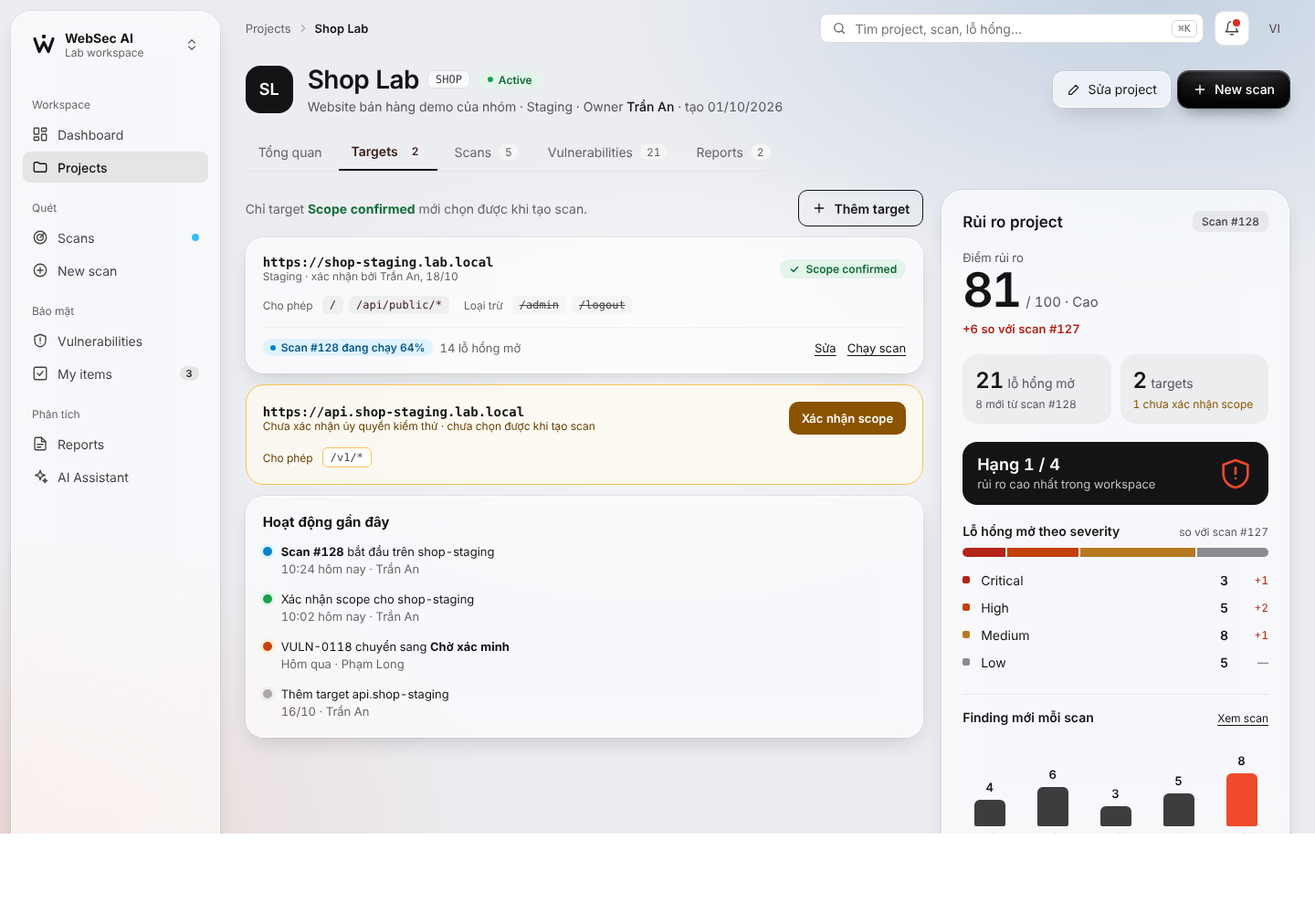
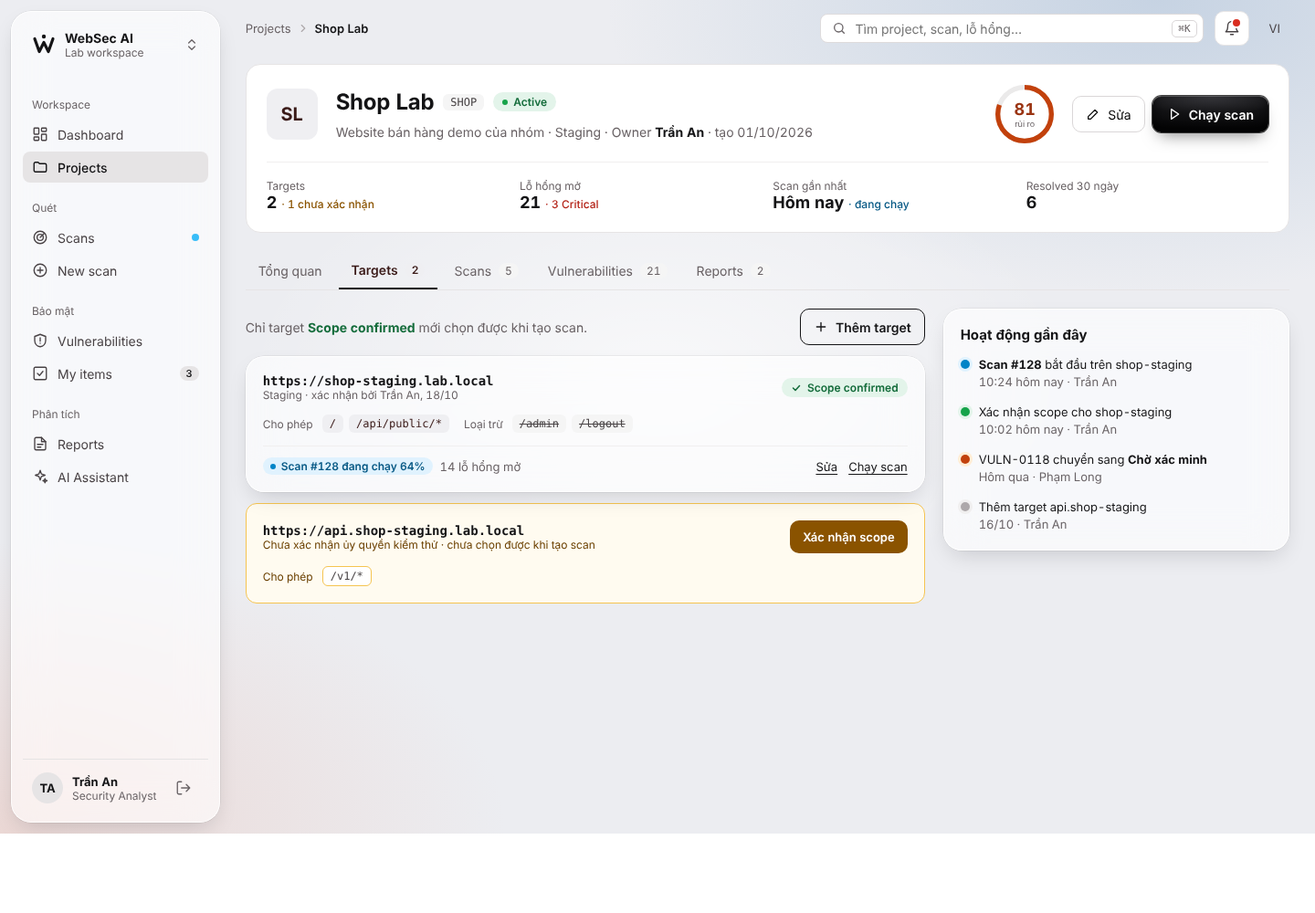
design: W04 quay về bố cục trước stats card (giữ nền mới)
Claude-Session: https://claude.ai/code/session_01LwojaGAzL5sjq8DHbyiojU

diff --git a/design/source/W04-Project-Detail.dc.html b/design/source/W04-Project-Detail.dc.html
@@ -13,7 +13,6 @@ body{margin:0}
 a{color:#141416;text-decoration-thickness:1px;text-underline-offset:3px}a:hover{color:#000}button:focus-visible,a:focus-visible,input:focus-visible,select:focus-visible{outline:2px solid #4c8dff;outline-offset:2px}body{-webkit-font-smoothing:antialiased}
 body{font-variant-numeric:tabular-nums}
 @media (max-width: 900px){nav[aria-label="Điều hướng chính"]{flex-basis:100%;padding-bottom:0}nav[aria-label="Điều hướng chính"]>:not(:first-child){display:none}}
-
 </style>
 </helmet>
 <div style="min-height: 100vh; display: flex; flex-wrap: wrap; background-color: #ECEDF1; background-image: radial-gradient(60% 50% at 88% 0%, rgba(111, 151, 194, 0.30), transparent 70%), radial-gradient(55% 50% at 0% 100%, rgba(233, 194, 184, 0.50), transparent 70%), radial-gradient(45% 40% at 50% 45%, rgba(255, 255, 255, 0.65), transparent 70%); background-attachment: fixed; font-family: ui-sans-serif, system-ui, -apple-system, 'SF Pro Text', 'Segoe UI', Roboto, 'Helvetica Neue', Arial, sans-serif; color: #141416">
@@ -45,15 +44,22 @@ body{font-variant-numeric:tabular-nums}
 
 <main style="flex: 1; box-sizing: border-box; margin: 0; background: transparent; padding: 20px 28px 32px; display: flex; flex-direction: column; gap: 20px">
 
-<section aria-label="Project" style="display: flex; flex-wrap: wrap; align-items: center; gap: 16px">
-<span style="flex: none; width: 52px; height: 52px; border-radius: 16px; background: #141416; color: #FFFFFF; display: flex; align-items: center; justify-content: center; font-weight: 600; font-size: 18px">SL</span>
-<div style="flex: 1 1 320px; min-width: 0; display: flex; flex-direction: column; gap: 4px">
-<div style="display: flex; flex-wrap: wrap; align-items: center; gap: 10px"><h1 style="margin: 0; font-size: 28px; line-height: 34px; font-weight: 600; letter-spacing: -0.02em">Shop Lab</h1><span style="font-family: ui-monospace, 'SF Mono', SFMono-Regular, Menlo, Consolas, monospace; font-size: 12px; padding: 2px 8px; background: rgba(255, 255, 255, 0.7); box-shadow: 0 0 0 0.5px rgba(0, 0, 0, 0.12); border-radius: 6px; color: #3f3f46">SHOP</span><span style="display: inline-flex; align-items: center; gap: 6px; font-size: 12px; font-weight: 600; padding: 2px 10px; background: #E3F4EA; color: #146C3B; border-radius: 999px"><span style="width: 6px; height: 6px; border-radius: 3px; background: #16A34A"></span>Active</span></div>
-<p style="margin: 0; font-size: 14px; color: #55555c">Website bán hàng demo của nhóm · Staging · Owner <b style="color: #141416; font-weight: 500">Trần An</b> · tạo 01/10/2026</p>
+<section style="background: #FFFFFF; border: 1px solid #E6E4E5; border-radius: 16px; padding: 22px; display: flex; flex-wrap: wrap; align-items: center; gap: 20px">
+<span style="flex: none; width: 56px; height: 56px; border-radius: 12px; background: #EFEFF2; color: #3A1A18; display: flex; align-items: center; justify-content: center; font-weight: 700; font-size: 20px">SL</span>
+<div style="flex: 1 1 320px; min-width: 0; display: flex; flex-direction: column; gap: 6px">
+<div style="display: flex; flex-wrap: wrap; align-items: center; gap: 10px"><h1 style="margin: 0; font-size: 24px; line-height: 32px; letter-spacing: -0.01em">Shop Lab</h1><span style="font-family: ui-monospace, 'SF Mono', SFMono-Regular, Menlo, Consolas, monospace; font-size: 12px; padding: 2px 8px; background: #F5F5F5; border-radius: 6px; color: #484345">SHOP</span><span style="display: inline-flex; align-items: center; gap: 6px; font-size: 12px; font-weight: 600; padding: 3px 10px; background: #E3F4EA; color: #146C3B; border-radius: 999px"><span style="width: 6px; height: 6px; border-radius: 3px; background: #16A34A"></span>Active</span></div>
+<p style="margin: 0; font-size: 14px; line-height: 21px; color: #686164">Website bán hàng demo của nhóm · Staging · Owner <b style="color: #141416">Trần An</b> · tạo 01/10/2026</p>
 </div>
+<span role="img" aria-label="Điểm rủi ro 81, mức cao" style="position: relative; flex: none; width: 64px; height: 64px; display: flex; align-items: center; justify-content: center"><svg aria-hidden="true" width="64" height="64" viewBox="0 0 36 36" style="position: absolute; inset: 0; transform: rotate(-90deg)"><circle cx="18" cy="18" r="16.5" fill="none" stroke="#EBEAEA" stroke-width="3"/><circle cx="18" cy="18" r="16.5" fill="none" stroke="#C2410C" stroke-width="3" pathLength="100" stroke-dasharray="81 100"/></svg><span style="position: relative; width: 52px; height: 52px; border-radius: 26px; background: #FFFFFF; display: flex; flex-direction: column; align-items: center; justify-content: center; line-height: 1"><b style="font-size: 18px; color: #9A3412">81</b><span style="font-size: 9px; color: #686164; margin-top: 2px">rủi ro</span></span></span>
 <div style="display: flex; flex-wrap: wrap; gap: 8px">
-<button type="button" style="display: inline-flex; align-items: center; gap: 8px; min-height: 40px; padding: 0 14px; border: none; border-radius: 12px; background: rgba(255, 255, 255, 0.62); -webkit-backdrop-filter: blur(22px) saturate(1.5); backdrop-filter: blur(22px) saturate(1.5); border: 1px solid rgba(255, 255, 255, 0.8); box-shadow: 0 0 0 0.5px rgba(0, 0, 0, 0.1), 0 10px 26px -8px rgba(10, 12, 20, 0.18); font: inherit; font-size: 14px; color: #141416"><svg aria-hidden="true" width="16" height="16" viewBox="0 0 24 24" fill="none" stroke="currentColor" stroke-width="1.8" stroke-linecap="round" stroke-linejoin="round"><path d="M4 20h4L19 9l-4-4L4 16z"/></svg>Sửa project</button>
-<a href="W06-Scan-Wizard.dc.html" style="display: inline-flex; align-items: center; gap: 8px; min-height: 40px; padding: 0 16px; background: radial-gradient(120% 90% at 50% 0%, #3a3a3f 0%, #121214 55%, #050506 100%); color: #FFFFFF; box-shadow: inset 0 1px 0 rgba(255, 255, 255, 0.22), inset 0 -3px 8px rgba(0, 0, 0, 0.7), 0 0 0 1px rgba(0, 0, 0, 0.75), 0 10px 18px -8px rgba(0, 0, 0, 0.5); border-radius: 12px; text-decoration: none; font-size: 14px; font-weight: 500"><svg aria-hidden="true" width="16" height="16" viewBox="0 0 24 24" fill="none" stroke="currentColor" stroke-width="2" stroke-linecap="round"><path d="M12 5v14M5 12h14"/></svg>New scan</a>
+<button type="button" style="display: inline-flex; align-items: center; gap: 8px; min-height: 40px; padding: 0 14px; border: 1px solid #DAD7D8; border-radius: 10px; background: #FFFFFF; font: inherit; font-size: 14px"><svg aria-hidden="true" width="16" height="16" viewBox="0 0 24 24" fill="none" stroke="currentColor" stroke-width="1.8" stroke-linecap="round" stroke-linejoin="round"><path d="M4 20h4L19 9l-4-4L4 16z"/></svg>Sửa</button>
+<a href="W06-Scan-Wizard.dc.html" style="display: inline-flex; align-items: center; gap: 8px; min-height: 40px; padding: 0 16px; background: radial-gradient(120% 90% at 50% 0%, #3a3a3f 0%, #121214 55%, #050506 100%); color: #FFFFFF; box-shadow: inset 0 1px 0 rgba(255, 255, 255, 0.22), inset 0 -3px 8px rgba(0, 0, 0, 0.7), 0 0 0 1px rgba(0, 0, 0, 0.75), 0 10px 18px -8px rgba(0, 0, 0, 0.5); border-radius: 10px; text-decoration: none; font-size: 14px; font-weight: 600"><svg aria-hidden="true" width="16" height="16" viewBox="0 0 24 24" fill="none" stroke="currentColor" stroke-width="2" stroke-linecap="round" stroke-linejoin="round"><path d="M7 4l12 8-12 8z"/></svg>Chạy scan</a>
+</div>
+<div style="flex: 1 1 100%; display: grid; grid-template-columns: repeat(auto-fit, minmax(160px, 1fr)); gap: 12px; padding-top: 18px; border-top: 1px solid #F0EFEF">
+<div style="display: flex; align-items: center; gap: 12px"><span style="display: flex; flex-direction: column"><span style="font-size: 12px; color: #686164">Targets</span><b style="font-size: 18px">2 <span style="font-size: 12px; font-weight: 500; color: #8A5300">· 1 chưa xác nhận</span></b></span></div>
+<div style="display: flex; align-items: center; gap: 12px"><span style="display: flex; flex-direction: column"><span style="font-size: 12px; color: #686164">Lỗ hổng mở</span><b style="font-size: 18px">21 <span style="font-size: 12px; font-weight: 500; color: #B42318">· 3 Critical</span></b></span></div>
+<div style="display: flex; align-items: center; gap: 12px"><span style="display: flex; flex-direction: column"><span style="font-size: 12px; color: #686164">Scan gần nhất</span><b style="font-size: 18px">Hôm nay <span style="font-size: 12px; font-weight: 500; color: #075985">· đang chạy</span></b></span></div>
+<div style="display: flex; align-items: center; gap: 12px"><span style="display: flex; flex-direction: column"><span style="font-size: 12px; color: #686164">Resolved 30 ngày</span><b style="font-size: 18px">6</b></span></div>
 </div>
 </section>
 
@@ -88,7 +94,7 @@ body{font-variant-numeric:tabular-nums}
 </div>
 </article>
 
-<article style="background: rgba(255, 251, 240, 0.75); -webkit-backdrop-filter: blur(22px); backdrop-filter: blur(22px); border: 1px solid #F5C451; border-radius: 20px; padding: 18px; display: flex; flex-direction: column; gap: 14px">
+<article style="background: #FFFBF0; border: 1px solid #F5C451; border-radius: 12px; padding: 18px; display: flex; flex-direction: column; gap: 14px">
 <div style="display: flex; flex-wrap: wrap; align-items: center; gap: 12px">
 
 <span style="flex: 1 1 260px; min-width: 0; display: flex; flex-direction: column"><a href="W05-Target.dc.html" style="font-family: ui-monospace, 'SF Mono', SFMono-Regular, Menlo, Consolas, monospace; font-size: 14px; font-weight: 600; color: #141416; text-decoration: none">https://api.shop-staging.lab.local</a><span style="font-size: 12px; color: #6B4000">Chưa xác nhận ủy quyền kiểm thử · chưa chọn được khi tạo scan</span></span>
@@ -96,7 +102,9 @@ body{font-variant-numeric:tabular-nums}
 </div>
 <div style="display: flex; flex-wrap: wrap; gap: 6px; align-items: center; font-size: 12px"><span style="color: #6B4000; margin-right: 4px">Cho phép</span><span style="font-family: ui-monospace, 'SF Mono', SFMono-Regular, Menlo, Consolas, monospace; padding: 3px 8px; background: #FFFFFF; color: #484345; border-radius: 6px; border: 1px solid #F5C451">/v1/*</span></div>
 </article>
-<aside style=" background: rgba(255, 255, 255, 0.62); -webkit-backdrop-filter: blur(22px) saturate(1.5); backdrop-filter: blur(22px) saturate(1.5); border: 1px solid rgba(255, 255, 255, 0.8); box-shadow: 0 0 0 0.5px rgba(0, 0, 0, 0.1), 0 10px 26px -8px rgba(10, 12, 20, 0.18); border-radius: 20px; padding: 18px; display: flex; flex-direction: column; gap: 14px">
+</div>
+
+<aside style="flex: 1 1 280px; min-width: 0; background: rgba(255, 255, 255, 0.62); -webkit-backdrop-filter: blur(22px) saturate(1.5); backdrop-filter: blur(22px) saturate(1.5); border: 1px solid rgba(255, 255, 255, 0.8); box-shadow: 0 0 0 0.5px rgba(0, 0, 0, 0.1), 0 10px 26px -8px rgba(10, 12, 20, 0.18); border-radius: 20px; padding: 18px; display: flex; flex-direction: column; gap: 14px">
 <h2 style="margin: 0; font-size: 15px">Hoạt động gần đây</h2>
 <ol style="margin: 0; padding: 0; list-style: none; display: flex; flex-direction: column; gap: 14px; font-size: 13px; line-height: 19px">
 <li style="display: flex; gap: 10px"><span style="flex: none; width: 10px; height: 10px; margin-top: 4px; border-radius: 5px; background: #0284C7; box-shadow: 0 0 0 3px #E0F2FE"></span><span><b>Scan #128</b> bắt đầu trên shop-staging<br><span style="color: #696366">10:24 hôm nay · Trần An</span></span></li>
@@ -105,30 +113,6 @@ body{font-variant-numeric:tabular-nums}
 <li style="display: flex; gap: 10px"><span style="flex: none; width: 10px; height: 10px; margin-top: 4px; border-radius: 5px; background: #ADA8AA; box-shadow: 0 0 0 3px #F0EFEF"></span><span>Thêm target api.shop-staging<br><span style="color: #696366">16/10 · Trần An</span></span></li>
 </ol>
 </aside>
-</div>
-
-<div style="flex: 1 1 320px; min-width: 0; display: flex; flex-direction: column; gap: 20px"><section aria-labelledby="pd-stats" style="background: rgba(255, 255, 255, 0.62); -webkit-backdrop-filter: blur(22px) saturate(1.5); backdrop-filter: blur(22px) saturate(1.5); border: 1px solid rgba(255, 255, 255, 0.8); box-shadow: 0 0 0 0.5px rgba(0, 0, 0, 0.1), 0 10px 26px -8px rgba(10, 12, 20, 0.18); border-radius: 24px; padding: 22px; display: flex; flex-direction: column; gap: 20px">
-<header style="display: flex; justify-content: space-between; align-items: center; gap: 8px"><h2 id="pd-stats" style="margin: 0; font-size: 17px; font-weight: 600">Rủi ro project</h2><span style="font-size: 12px; font-weight: 500; padding: 4px 10px; border-radius: 8px; background: rgba(20, 20, 22, 0.06); color: #3f3f46">Scan #128</span></header>
-<div><p style="margin: 0; font-size: 13px; color: #55555c">Điểm rủi ro</p><p style="margin: 2px 0 0; display: flex; align-items: baseline; gap: 6px"><b style="font-size: 52px; line-height: 1; font-weight: 600; letter-spacing: -0.04em">81</b><span style="font-size: 15px; color: #55555c">/ 100 · Cao</span></p><p style="margin: 8px 0 0; font-size: 13px; font-weight: 600; color: #B42318">+6 so với scan #127</p></div>
-<div style="display: grid; grid-template-columns: 1fr 1fr; gap: 10px">
-<a href="W08-Vulns.dc.html" style="padding: 14px; border-radius: 16px; background: rgba(20, 20, 22, 0.05); text-decoration: none; color: #141416"><span style="font-size: 24px; font-weight: 600">21</span> <span style="font-size: 14px; color: #55555c">lỗ hổng mở</span><span style="display: block; margin-top: 4px; font-size: 12px; color: #55555c">8 mới từ scan #128</span></a>
-<a href="W05-Target.dc.html" style="padding: 14px; border-radius: 16px; background: rgba(20, 20, 22, 0.05); text-decoration: none; color: #141416"><span style="font-size: 24px; font-weight: 600">2</span> <span style="font-size: 14px; color: #55555c">targets</span><span style="display: block; margin-top: 4px; font-size: 12px; color: #8A5300">1 chưa xác nhận scope</span></a>
-</div>
-<div style="display: flex; align-items: center; justify-content: space-between; gap: 12px; padding: 14px 16px; border-radius: 16px; background: #141416; color: #FFFFFF" aria-label="Xếp hạng 1 trên 4 project">
-<div><b style="display: block; font-size: 18px; font-weight: 600">Hạng 1 / 4</b><span style="font-size: 13px; color: rgba(255, 255, 255, 0.72)">rủi ro cao nhất trong workspace</span></div>
-<svg aria-hidden="true" width="40" height="40" viewBox="0 0 24 24" fill="none" stroke="#EF4A2B" stroke-width="1.6" stroke-linecap="round" stroke-linejoin="round"><path d="M12 3l8 3v6c0 4.5-3.4 8.3-8 9-4.6-.7-8-4.5-8-9V6z"/><path d="M12 8v4M12 15h.01"/></svg>
-</div>
-<div style="display: flex; flex-direction: column; gap: 10px">
-<div style="display: flex; justify-content: space-between; align-items: baseline"><h3 style="margin: 0; font-size: 14px; font-weight: 600">Lỗ hổng mở theo severity</h3><span style="font-size: 12px; color: #55555c">so với scan #127</span></div>
-<div role="img" aria-label="21 lỗ hổng mở: 3 Critical, 5 High, 8 Medium, 5 Low" style="display: flex; gap: 2px; height: 10px; border-radius: 5px; overflow: hidden"><span style="flex: 3; background: #B42318"></span><span style="flex: 5; background: #C2410C"></span><span style="flex: 8; background: #B7791F"></span><span style="flex: 5; background: #8A8A90"></span></div>
-<div style="display: flex; flex-direction: column"><a href="W08-Vulns.dc.html" style="display: grid; grid-template-columns: 10px 1fr 28px 34px; align-items: center; gap: 10px; min-height: 30px; text-decoration: none; color: #141416; font-size: 14px"><span style="width: 8px; height: 8px; border-radius: 2px; background: #B42318"></span><span>Critical</span><b style="text-align: right; font-weight: 600">3</b><span style="text-align: right; font-size: 12px; color: #B42318">+1</span></a><a href="W08-Vulns.dc.html" style="display: grid; grid-template-columns: 10px 1fr 28px 34px; align-items: center; gap: 10px; min-height: 30px; text-decoration: none; color: #141416; font-size: 14px"><span style="width: 8px; height: 8px; border-radius: 2px; background: #C2410C"></span><span>High</span><b style="text-align: right; font-weight: 600">5</b><span style="text-align: right; font-size: 12px; color: #B42318">+2</span></a><a href="W08-Vulns.dc.html" style="display: grid; grid-template-columns: 10px 1fr 28px 34px; align-items: center; gap: 10px; min-height: 30px; text-decoration: none; color: #141416; font-size: 14px"><span style="width: 8px; height: 8px; border-radius: 2px; background: #B7791F"></span><span>Medium</span><b style="text-align: right; font-weight: 600">8</b><span style="text-align: right; font-size: 12px; color: #B42318">+1</span></a><a href="W08-Vulns.dc.html" style="display: grid; grid-template-columns: 10px 1fr 28px 34px; align-items: center; gap: 10px; min-height: 30px; text-decoration: none; color: #141416; font-size: 14px"><span style="width: 8px; height: 8px; border-radius: 2px; background: #8A8A90"></span><span>Low</span><b style="text-align: right; font-weight: 600">5</b><span style="text-align: right; font-size: 12px; color: #6b6b72">—</span></a></div>
-</div>
-<div style="display: flex; flex-direction: column; gap: 10px; padding-top: 16px; border-top: 1px solid rgba(20, 20, 22, 0.08)">
-<div style="display: flex; justify-content: space-between; align-items: baseline"><h3 style="margin: 0; font-size: 14px; font-weight: 600">Finding mới mỗi scan</h3><a href="W07-Scan-Detail.dc.html" style="font-size: 12px">Xem scan</a></div>
-<div role="img" aria-label="Finding mới qua 5 scan: #124 4, #125 6, #126 3, #127 5, #128 8 (đang chạy)" style="display: flex; align-items: flex-end; gap: 10px; height: 120px"><div style="flex: 1; display: flex; flex-direction: column; align-items: center; gap: 6px"><b style="font-size: 13px; font-weight: 600; color: #141416">4</b><span style="width: 100%; max-width: 34px; height: 29px; border-radius: 6px 6px 2px 2px; background: #141416; opacity: 0.82"></span><span style="font-family: ui-monospace, 'SF Mono', SFMono-Regular, Menlo, Consolas, monospace; font-size: 11px; color: #5f5f66">#124</span></div><div style="flex: 1; display: flex; flex-direction: column; align-items: center; gap: 6px"><b style="font-size: 13px; font-weight: 600; color: #141416">6</b><span style="width: 100%; max-width: 34px; height: 43px; border-radius: 6px 6px 2px 2px; background: #141416; opacity: 0.82"></span><span style="font-family: ui-monospace, 'SF Mono', SFMono-Regular, Menlo, Consolas, monospace; font-size: 11px; color: #5f5f66">#125</span></div><div style="flex: 1; display: flex; flex-direction: column; align-items: center; gap: 6px"><b style="font-size: 13px; font-weight: 600; color: #141416">3</b><span style="width: 100%; max-width: 34px; height: 22px; border-radius: 6px 6px 2px 2px; background: #141416; opacity: 0.82"></span><span style="font-family: ui-monospace, 'SF Mono', SFMono-Regular, Menlo, Consolas, monospace; font-size: 11px; color: #5f5f66">#126</span></div><div style="flex: 1; display: flex; flex-direction: column; align-items: center; gap: 6px"><b style="font-size: 13px; font-weight: 600; color: #141416">5</b><span style="width: 100%; max-width: 34px; height: 36px; border-radius: 6px 6px 2px 2px; background: #141416; opacity: 0.82"></span><span style="font-family: ui-monospace, 'SF Mono', SFMono-Regular, Menlo, Consolas, monospace; font-size: 11px; color: #5f5f66">#127</span></div><div style="flex: 1; display: flex; flex-direction: column; align-items: center; gap: 6px"><b style="font-size: 13px; font-weight: 600; color: #141416">8</b><span style="width: 100%; max-width: 34px; height: 58px; border-radius: 6px 6px 2px 2px; background: #EF4A2B; opacity: 1"></span><span style="font-family: ui-monospace, 'SF Mono', SFMono-Regular, Menlo, Consolas, monospace; font-size: 11px; color: #5f5f66">#128</span></div></div>
-<p style="margin: 0; font-size: 12px; color: #55555c">#128 đang chạy (64%), con số còn có thể tăng.</p>
-</div>
-</section></div>
 </div>
 </main>
 </div>

diff --git a/design/screens/W04-Project-Detail.html b/design/screens/W04-Project-Detail.html
@@ -4,7 +4,6 @@ body{margin:0}
 a{color:#141416;text-decoration-thickness:1px;text-underline-offset:3px}a:hover{color:#000}button:focus-visible,a:focus-visible,input:focus-visible,select:focus-visible{outline:2px solid #4c8dff;outline-offset:2px}body{-webkit-font-smoothing:antialiased}
 body{font-variant-numeric:tabular-nums}
 @media (max-width: 900px){nav[aria-label="Điều hướng chính"]{flex-basis:100%;padding-bottom:0}nav[aria-label="Điều hướng chính"]>:not(:first-child){display:none}}
-
 </style>
 </head><body>
 
@@ -37,15 +36,22 @@ body{font-variant-numeric:tabular-nums}
 
 <main style="flex: 1; box-sizing: border-box; margin: 0; background: transparent; padding: 20px 28px 32px; display: flex; flex-direction: column; gap: 20px">
 
-<section aria-label="Project" style="display: flex; flex-wrap: wrap; align-items: center; gap: 16px">
-<span style="flex: none; width: 52px; height: 52px; border-radius: 16px; background: #141416; color: #FFFFFF; display: flex; align-items: center; justify-content: center; font-weight: 600; font-size: 18px">SL</span>
-<div style="flex: 1 1 320px; min-width: 0; display: flex; flex-direction: column; gap: 4px">
-<div style="display: flex; flex-wrap: wrap; align-items: center; gap: 10px"><h1 style="margin: 0; font-size: 28px; line-height: 34px; font-weight: 600; letter-spacing: -0.02em">Shop Lab</h1><span style="font-family: ui-monospace, 'SF Mono', SFMono-Regular, Menlo, Consolas, monospace; font-size: 12px; padding: 2px 8px; background: rgba(255, 255, 255, 0.7); box-shadow: 0 0 0 0.5px rgba(0, 0, 0, 0.12); border-radius: 6px; color: #3f3f46">SHOP</span><span style="display: inline-flex; align-items: center; gap: 6px; font-size: 12px; font-weight: 600; padding: 2px 10px; background: #E3F4EA; color: #146C3B; border-radius: 999px"><span style="width: 6px; height: 6px; border-radius: 3px; background: #16A34A"></span>Active</span></div>
-<p style="margin: 0; font-size: 14px; color: #55555c">Website bán hàng demo của nhóm · Staging · Owner <b style="color: #141416; font-weight: 500">Trần An</b> · tạo 01/10/2026</p>
+<section style="background: #FFFFFF; border: 1px solid #E6E4E5; border-radius: 16px; padding: 22px; display: flex; flex-wrap: wrap; align-items: center; gap: 20px">
+<span style="flex: none; width: 56px; height: 56px; border-radius: 12px; background: #EFEFF2; color: #3A1A18; display: flex; align-items: center; justify-content: center; font-weight: 700; font-size: 20px">SL</span>
+<div style="flex: 1 1 320px; min-width: 0; display: flex; flex-direction: column; gap: 6px">
+<div style="display: flex; flex-wrap: wrap; align-items: center; gap: 10px"><h1 style="margin: 0; font-size: 24px; line-height: 32px; letter-spacing: -0.01em">Shop Lab</h1><span style="font-family: ui-monospace, 'SF Mono', SFMono-Regular, Menlo, Consolas, monospace; font-size: 12px; padding: 2px 8px; background: #F5F5F5; border-radius: 6px; color: #484345">SHOP</span><span style="display: inline-flex; align-items: center; gap: 6px; font-size: 12px; font-weight: 600; padding: 3px 10px; background: #E3F4EA; color: #146C3B; border-radius: 999px"><span style="width: 6px; height: 6px; border-radius: 3px; background: #16A34A"></span>Active</span></div>
+<p style="margin: 0; font-size: 14px; line-height: 21px; color: #686164">Website bán hàng demo của nhóm · Staging · Owner <b style="color: #141416">Trần An</b> · tạo 01/10/2026</p>
 </div>
+<span role="img" aria-label="Điểm rủi ro 81, mức cao" style="position: relative; flex: none; width: 64px; height: 64px; display: flex; align-items: center; justify-content: center"><svg aria-hidden="true" width="64" height="64" viewBox="0 0 36 36" style="position: absolute; inset: 0; transform: rotate(-90deg)"><circle cx="18" cy="18" r="16.5" fill="none" stroke="#EBEAEA" stroke-width="3"/><circle cx="18" cy="18" r="16.5" fill="none" stroke="#C2410C" stroke-width="3" pathLength="100" stroke-dasharray="81 100"/></svg><span style="position: relative; width: 52px; height: 52px; border-radius: 26px; background: #FFFFFF; display: flex; flex-direction: column; align-items: center; justify-content: center; line-height: 1"><b style="font-size: 18px; color: #9A3412">81</b><span style="font-size: 9px; color: #686164; margin-top: 2px">rủi ro</span></span></span>
 <div style="display: flex; flex-wrap: wrap; gap: 8px">
-<button type="button" style="display: inline-flex; align-items: center; gap: 8px; min-height: 40px; padding: 0 14px; border: none; border-radius: 12px; background: rgba(255, 255, 255, 0.62); -webkit-backdrop-filter: blur(22px) saturate(1.5); backdrop-filter: blur(22px) saturate(1.5); border: 1px solid rgba(255, 255, 255, 0.8); box-shadow: 0 0 0 0.5px rgba(0, 0, 0, 0.1), 0 10px 26px -8px rgba(10, 12, 20, 0.18); font: inherit; font-size: 14px; color: #141416"><svg aria-hidden="true" width="16" height="16" viewBox="0 0 24 24" fill="none" stroke="currentColor" stroke-width="1.8" stroke-linecap="round" stroke-linejoin="round"><path d="M4 20h4L19 9l-4-4L4 16z"/></svg>Sửa project</button>
-<a href="W06-Scan-Wizard.html" style="display: inline-flex; align-items: center; gap: 8px; min-height: 40px; padding: 0 16px; background: radial-gradient(120% 90% at 50% 0%, #3a3a3f 0%, #121214 55%, #050506 100%); color: #FFFFFF; box-shadow: inset 0 1px 0 rgba(255, 255, 255, 0.22), inset 0 -3px 8px rgba(0, 0, 0, 0.7), 0 0 0 1px rgba(0, 0, 0, 0.75), 0 10px 18px -8px rgba(0, 0, 0, 0.5); border-radius: 12px; text-decoration: none; font-size: 14px; font-weight: 500"><svg aria-hidden="true" width="16" height="16" viewBox="0 0 24 24" fill="none" stroke="currentColor" stroke-width="2" stroke-linecap="round"><path d="M12 5v14M5 12h14"/></svg>New scan</a>
+<button type="button" style="display: inline-flex; align-items: center; gap: 8px; min-height: 40px; padding: 0 14px; border: 1px solid #DAD7D8; border-radius: 10px; background: #FFFFFF; font: inherit; font-size: 14px"><svg aria-hidden="true" width="16" height="16" viewBox="0 0 24 24" fill="none" stroke="currentColor" stroke-width="1.8" stroke-linecap="round" stroke-linejoin="round"><path d="M4 20h4L19 9l-4-4L4 16z"/></svg>Sửa</button>
+<a href="W06-Scan-Wizard.html" style="display: inline-flex; align-items: center; gap: 8px; min-height: 40px; padding: 0 16px; background: radial-gradient(120% 90% at 50% 0%, #3a3a3f 0%, #121214 55%, #050506 100%); color: #FFFFFF; box-shadow: inset 0 1px 0 rgba(255, 255, 255, 0.22), inset 0 -3px 8px rgba(0, 0, 0, 0.7), 0 0 0 1px rgba(0, 0, 0, 0.75), 0 10px 18px -8px rgba(0, 0, 0, 0.5); border-radius: 10px; text-decoration: none; font-size: 14px; font-weight: 600"><svg aria-hidden="true" width="16" height="16" viewBox="0 0 24 24" fill="none" stroke="currentColor" stroke-width="2" stroke-linecap="round" stroke-linejoin="round"><path d="M7 4l12 8-12 8z"/></svg>Chạy scan</a>
+</div>
+<div style="flex: 1 1 100%; display: grid; grid-template-columns: repeat(auto-fit, minmax(160px, 1fr)); gap: 12px; padding-top: 18px; border-top: 1px solid #F0EFEF">
+<div style="display: flex; align-items: center; gap: 12px"><span style="display: flex; flex-direction: column"><span style="font-size: 12px; color: #686164">Targets</span><b style="font-size: 18px">2 <span style="font-size: 12px; font-weight: 500; color: #8A5300">· 1 chưa xác nhận</span></b></span></div>
+<div style="display: flex; align-items: center; gap: 12px"><span style="display: flex; flex-direction: column"><span style="font-size: 12px; color: #686164">Lỗ hổng mở</span><b style="font-size: 18px">21 <span style="font-size: 12px; font-weight: 500; color: #B42318">· 3 Critical</span></b></span></div>
+<div style="display: flex; align-items: center; gap: 12px"><span style="display: flex; flex-direction: column"><span style="font-size: 12px; color: #686164">Scan gần nhất</span><b style="font-size: 18px">Hôm nay <span style="font-size: 12px; font-weight: 500; color: #075985">· đang chạy</span></b></span></div>
+<div style="display: flex; align-items: center; gap: 12px"><span style="display: flex; flex-direction: column"><span style="font-size: 12px; color: #686164">Resolved 30 ngày</span><b style="font-size: 18px">6</b></span></div>
 </div>
 </section>
 
@@ -80,7 +86,7 @@ body{font-variant-numeric:tabular-nums}
 </div>
 </article>
 
-<article style="background: rgba(255, 251, 240, 0.75); -webkit-backdrop-filter: blur(22px); backdrop-filter: blur(22px); border: 1px solid #F5C451; border-radius: 20px; padding: 18px; display: flex; flex-direction: column; gap: 14px">
+<article style="background: #FFFBF0; border: 1px solid #F5C451; border-radius: 12px; padding: 18px; display: flex; flex-direction: column; gap: 14px">
 <div style="display: flex; flex-wrap: wrap; align-items: center; gap: 12px">
 
 <span style="flex: 1 1 260px; min-width: 0; display: flex; flex-direction: column"><a href="W05-Target.html" style="font-family: ui-monospace, 'SF Mono', SFMono-Regular, Menlo, Consolas, monospace; font-size: 14px; font-weight: 600; color: #141416; text-decoration: none">https://api.shop-staging.lab.local</a><span style="font-size: 12px; color: #6B4000">Chưa xác nhận ủy quyền kiểm thử · chưa chọn được khi tạo scan</span></span>
@@ -88,7 +94,9 @@ body{font-variant-numeric:tabular-nums}
 </div>
 <div style="display: flex; flex-wrap: wrap; gap: 6px; align-items: center; font-size: 12px"><span style="color: #6B4000; margin-right: 4px">Cho phép</span><span style="font-family: ui-monospace, 'SF Mono', SFMono-Regular, Menlo, Consolas, monospace; padding: 3px 8px; background: #FFFFFF; color: #484345; border-radius: 6px; border: 1px solid #F5C451">/v1/*</span></div>
 </article>
-<aside style=" background: rgba(255, 255, 255, 0.62); -webkit-backdrop-filter: blur(22px) saturate(1.5); backdrop-filter: blur(22px) saturate(1.5); border: 1px solid rgba(255, 255, 255, 0.8); box-shadow: 0 0 0 0.5px rgba(0, 0, 0, 0.1), 0 10px 26px -8px rgba(10, 12, 20, 0.18); border-radius: 20px; padding: 18px; display: flex; flex-direction: column; gap: 14px">
+</div>
+
+<aside style="flex: 1 1 280px; min-width: 0; background: rgba(255, 255, 255, 0.62); -webkit-backdrop-filter: blur(22px) saturate(1.5); backdrop-filter: blur(22px) saturate(1.5); border: 1px solid rgba(255, 255, 255, 0.8); box-shadow: 0 0 0 0.5px rgba(0, 0, 0, 0.1), 0 10px 26px -8px rgba(10, 12, 20, 0.18); border-radius: 20px; padding: 18px; display: flex; flex-direction: column; gap: 14px">
 <h2 style="margin: 0; font-size: 15px">Hoạt động gần đây</h2>
 <ol style="margin: 0; padding: 0; list-style: none; display: flex; flex-direction: column; gap: 14px; font-size: 13px; line-height: 19px">
 <li style="display: flex; gap: 10px"><span style="flex: none; width: 10px; height: 10px; margin-top: 4px; border-radius: 5px; background: #0284C7; box-shadow: 0 0 0 3px #E0F2FE"></span><span><b>Scan #128</b> bắt đầu trên shop-staging<br><span style="color: #696366">10:24 hôm nay · Trần An</span></span></li>
@@ -97,30 +105,6 @@ body{font-variant-numeric:tabular-nums}
 <li style="display: flex; gap: 10px"><span style="flex: none; width: 10px; height: 10px; margin-top: 4px; border-radius: 5px; background: #ADA8AA; box-shadow: 0 0 0 3px #F0EFEF"></span><span>Thêm target api.shop-staging<br><span style="color: #696366">16/10 · Trần An</span></span></li>
 </ol>
 </aside>
-</div>
-
-<div style="flex: 1 1 320px; min-width: 0; display: flex; flex-direction: column; gap: 20px"><section aria-labelledby="pd-stats" style="background: rgba(255, 255, 255, 0.62); -webkit-backdrop-filter: blur(22px) saturate(1.5); backdrop-filter: blur(22px) saturate(1.5); border: 1px solid rgba(255, 255, 255, 0.8); box-shadow: 0 0 0 0.5px rgba(0, 0, 0, 0.1), 0 10px 26px -8px rgba(10, 12, 20, 0.18); border-radius: 24px; padding: 22px; display: flex; flex-direction: column; gap: 20px">
-<header style="display: flex; justify-content: space-between; align-items: center; gap: 8px"><h2 id="pd-stats" style="margin: 0; font-size: 17px; font-weight: 600">Rủi ro project</h2><span style="font-size: 12px; font-weight: 500; padding: 4px 10px; border-radius: 8px; background: rgba(20, 20, 22, 0.06); color: #3f3f46">Scan #128</span></header>
-<div><p style="margin: 0; font-size: 13px; color: #55555c">Điểm rủi ro</p><p style="margin: 2px 0 0; display: flex; align-items: baseline; gap: 6px"><b style="font-size: 52px; line-height: 1; font-weight: 600; letter-spacing: -0.04em">81</b><span style="font-size: 15px; color: #55555c">/ 100 · Cao</span></p><p style="margin: 8px 0 0; font-size: 13px; font-weight: 600; color: #B42318">+6 so với scan #127</p></div>
-<div style="display: grid; grid-template-columns: 1fr 1fr; gap: 10px">
-<a href="W08-Vulns.html" style="padding: 14px; border-radius: 16px; background: rgba(20, 20, 22, 0.05); text-decoration: none; color: #141416"><span style="font-size: 24px; font-weight: 600">21</span> <span style="font-size: 14px; color: #55555c">lỗ hổng mở</span><span style="display: block; margin-top: 4px; font-size: 12px; color: #55555c">8 mới từ scan #128</span></a>
-<a href="W05-Target.html" style="padding: 14px; border-radius: 16px; background: rgba(20, 20, 22, 0.05); text-decoration: none; color: #141416"><span style="font-size: 24px; font-weight: 600">2</span> <span style="font-size: 14px; color: #55555c">targets</span><span style="display: block; margin-top: 4px; font-size: 12px; color: #8A5300">1 chưa xác nhận scope</span></a>
-</div>
-<div style="display: flex; align-items: center; justify-content: space-between; gap: 12px; padding: 14px 16px; border-radius: 16px; background: #141416; color: #FFFFFF" aria-label="Xếp hạng 1 trên 4 project">
-<div><b style="display: block; font-size: 18px; font-weight: 600">Hạng 1 / 4</b><span style="font-size: 13px; color: rgba(255, 255, 255, 0.72)">rủi ro cao nhất trong workspace</span></div>
-<svg aria-hidden="true" width="40" height="40" viewBox="0 0 24 24" fill="none" stroke="#EF4A2B" stroke-width="1.6" stroke-linecap="round" stroke-linejoin="round"><path d="M12 3l8 3v6c0 4.5-3.4 8.3-8 9-4.6-.7-8-4.5-8-9V6z"/><path d="M12 8v4M12 15h.01"/></svg>
-</div>
-<div style="display: flex; flex-direction: column; gap: 10px">
-<div style="display: flex; justify-content: space-between; align-items: baseline"><h3 style="margin: 0; font-size: 14px; font-weight: 600">Lỗ hổng mở theo severity</h3><span style="font-size: 12px; color: #55555c">so với scan #127</span></div>
-<div role="img" aria-label="21 lỗ hổng mở: 3 Critical, 5 High, 8 Medium, 5 Low" style="display: flex; gap: 2px; height: 10px; border-radius: 5px; overflow: hidden"><span style="flex: 3; background: #B42318"></span><span style="flex: 5; background: #C2410C"></span><span style="flex: 8; background: #B7791F"></span><span style="flex: 5; background: #8A8A90"></span></div>
-<div style="display: flex; flex-direction: column"><a href="W08-Vulns.html" style="display: grid; grid-template-columns: 10px 1fr 28px 34px; align-items: center; gap: 10px; min-height: 30px; text-decoration: none; color: #141416; font-size: 14px"><span style="width: 8px; height: 8px; border-radius: 2px; background: #B42318"></span><span>Critical</span><b style="text-align: right; font-weight: 600">3</b><span style="text-align: right; font-size: 12px; color: #B42318">+1</span></a><a href="W08-Vulns.html" style="display: grid; grid-template-columns: 10px 1fr 28px 34px; align-items: center; gap: 10px; min-height: 30px; text-decoration: none; color: #141416; font-size: 14px"><span style="width: 8px; height: 8px; border-radius: 2px; background: #C2410C"></span><span>High</span><b style="text-align: right; font-weight: 600">5</b><span style="text-align: right; font-size: 12px; color: #B42318">+2</span></a><a href="W08-Vulns.html" style="display: grid; grid-template-columns: 10px 1fr 28px 34px; align-items: center; gap: 10px; min-height: 30px; text-decoration: none; color: #141416; font-size: 14px"><span style="width: 8px; height: 8px; border-radius: 2px; background: #B7791F"></span><span>Medium</span><b style="text-align: right; font-weight: 600">8</b><span style="text-align: right; font-size: 12px; color: #B42318">+1</span></a><a href="W08-Vulns.html" style="display: grid; grid-template-columns: 10px 1fr 28px 34px; align-items: center; gap: 10px; min-height: 30px; text-decoration: none; color: #141416; font-size: 14px"><span style="width: 8px; height: 8px; border-radius: 2px; background: #8A8A90"></span><span>Low</span><b style="text-align: right; font-weight: 600">5</b><span style="text-align: right; font-size: 12px; color: #6b6b72">—</span></a></div>
-</div>
-<div style="display: flex; flex-direction: column; gap: 10px; padding-top: 16px; border-top: 1px solid rgba(20, 20, 22, 0.08)">
-<div style="display: flex; justify-content: space-between; align-items: baseline"><h3 style="margin: 0; font-size: 14px; font-weight: 600">Finding mới mỗi scan</h3><a href="W07-Scan-Detail.html" style="font-size: 12px">Xem scan</a></div>
-<div role="img" aria-label="Finding mới qua 5 scan: #124 4, #125 6, #126 3, #127 5, #128 8 (đang chạy)" style="display: flex; align-items: flex-end; gap: 10px; height: 120px"><div style="flex: 1; display: flex; flex-direction: column; align-items: center; gap: 6px"><b style="font-size: 13px; font-weight: 600; color: #141416">4</b><span style="width: 100%; max-width: 34px; height: 29px; border-radius: 6px 6px 2px 2px; background: #141416; opacity: 0.82"></span><span style="font-family: ui-monospace, 'SF Mono', SFMono-Regular, Menlo, Consolas, monospace; font-size: 11px; color: #5f5f66">#124</span></div><div style="flex: 1; display: flex; flex-direction: column; align-items: center; gap: 6px"><b style="font-size: 13px; font-weight: 600; color: #141416">6</b><span style="width: 100%; max-width: 34px; height: 43px; border-radius: 6px 6px 2px 2px; background: #141416; opacity: 0.82"></span><span style="font-family: ui-monospace, 'SF Mono', SFMono-Regular, Menlo, Consolas, monospace; font-size: 11px; color: #5f5f66">#125</span></div><div style="flex: 1; display: flex; flex-direction: column; align-items: center; gap: 6px"><b style="font-size: 13px; font-weight: 600; color: #141416">3</b><span style="width: 100%; max-width: 34px; height: 22px; border-radius: 6px 6px 2px 2px; background: #141416; opacity: 0.82"></span><span style="font-family: ui-monospace, 'SF Mono', SFMono-Regular, Menlo, Consolas, monospace; font-size: 11px; color: #5f5f66">#126</span></div><div style="flex: 1; display: flex; flex-direction: column; align-items: center; gap: 6px"><b style="font-size: 13px; font-weight: 600; color: #141416">5</b><span style="width: 100%; max-width: 34px; height: 36px; border-radius: 6px 6px 2px 2px; background: #141416; opacity: 0.82"></span><span style="font-family: ui-monospace, 'SF Mono', SFMono-Regular, Menlo, Consolas, monospace; font-size: 11px; color: #5f5f66">#127</span></div><div style="flex: 1; display: flex; flex-direction: column; align-items: center; gap: 6px"><b style="font-size: 13px; font-weight: 600; color: #141416">8</b><span style="width: 100%; max-width: 34px; height: 58px; border-radius: 6px 6px 2px 2px; background: #EF4A2B; opacity: 1"></span><span style="font-family: ui-monospace, 'SF Mono', SFMono-Regular, Menlo, Consolas, monospace; font-size: 11px; color: #5f5f66">#128</span></div></div>
-<p style="margin: 0; font-size: 12px; color: #55555c">#128 đang chạy (64%), con số còn có thể tăng.</p>
-</div>
-</section></div>
 </div>
 </main>
 </div>
